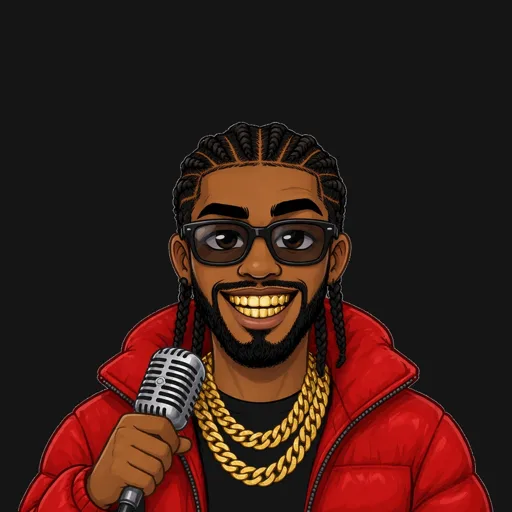
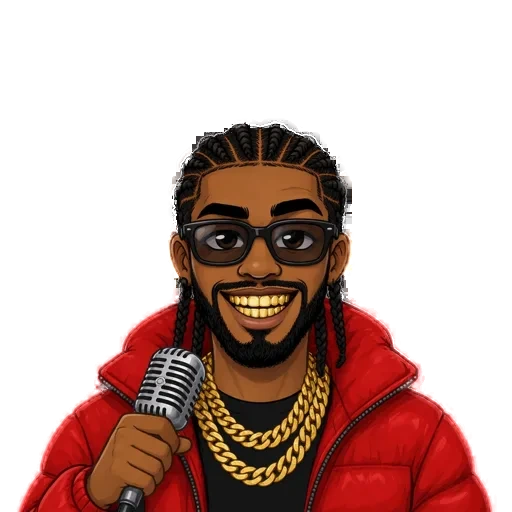
Cut the solid backdrop out of the newer character portraits.
Eleven characters that shipped on a near-black plate now have a real alpha matte, so the pitmaster's flames sit on the home screen. The originals are kept as backups. CHR-015 was not touched.

diff --git a/packages/web/src/avatars.tsx b/packages/web/src/avatars.tsx
@@ -2,6 +2,9 @@ import { useState } from "react";
 import { AVATARS, resolveAvatar } from "../../rules/src/avatars.js";
 import { playUiClick } from "./sound";
 
+/** Bump when portrait bytes change so phones drop a cached opaque WebP. */
+export const AVATAR_ART = "1";
+
 export function Portrait({
   id,
   size = "chip",
@@ -14,7 +17,8 @@ export function Portrait({
   if (failed) {
     return <span className={`portrait-fallback portrait-${size}`}>{avatar.slice(0, 1).toUpperCase()}</span>;
   }
-  const src = size === "chip" ? `/avatars/${avatar}-256.webp` : `/avatars/${avatar}.webp`;
+  const file = size === "chip" ? `${avatar}-256.webp` : `${avatar}.webp`;
+  const src = `/avatars/${file}?v=${AVATAR_ART}`;
   return (
     <img
       className={`portrait portrait-${size}`}

diff --git a/packages/web/src/store.tsx b/packages/web/src/store.tsx
@@ -1,5 +1,6 @@
 import { useEffect, useState } from "react";
 import type { StoreItem } from "../../rules/src/catalog.js";
+import { AVATAR_ART } from "./avatars";
 import { playUiClick } from "./sound";
 
 const TABS: Array<{ id: StoreItem["category"]; label: string }> = [
@@ -300,7 +301,7 @@ function Price({ item, owned, wearing }: { item: StoreItem; owned: boolean; wear
 
 function artSrc(item: StoreItem): string | null {
   if (!item.art) return null;
-  if (item.avatarId) return `/avatars/${item.avatarId}.webp`;
+  if (item.avatarId) return `/avatars/${item.avatarId}.webp?v=${AVATAR_ART}`;
   if (item.category === "table") return `/store/${item.id}.webp?v=7`;
   return `/store/${item.id}.webp`;
 }
